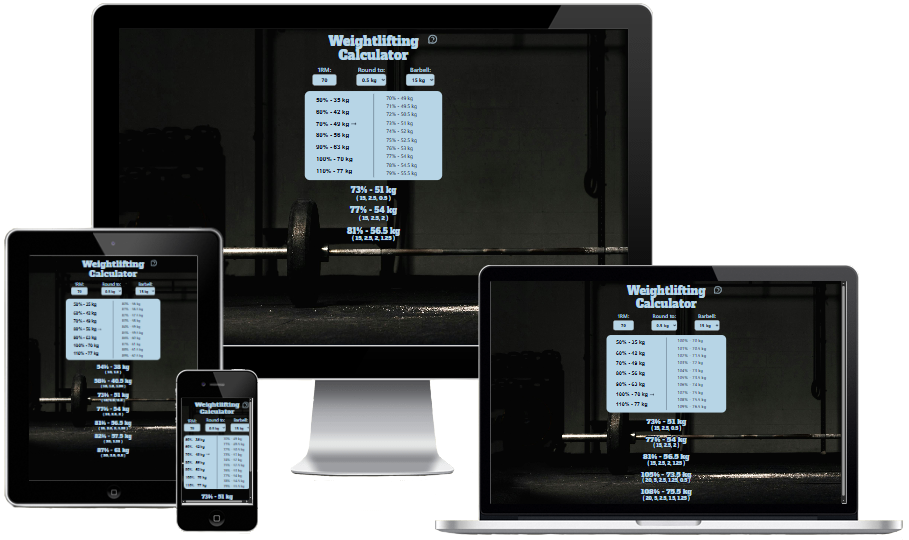
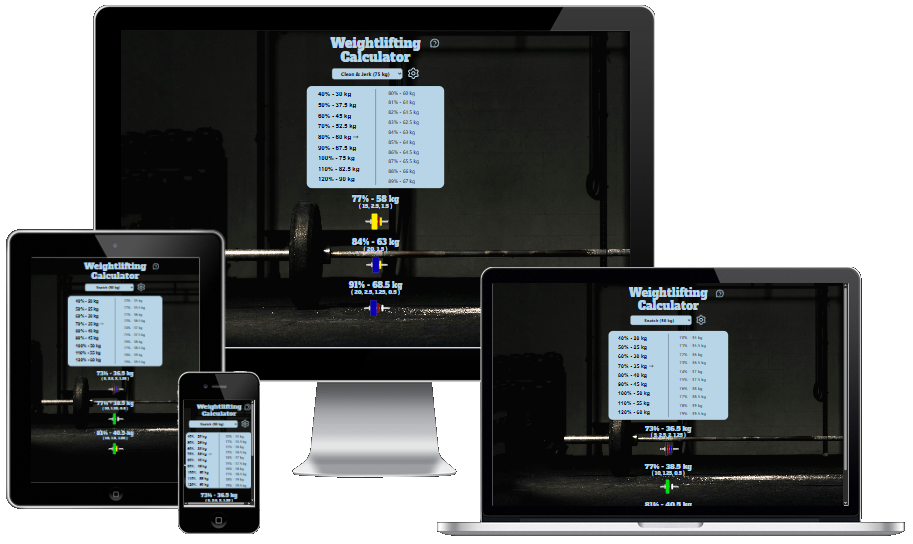
docs: update screenshot image and clarify text for plates feature

diff --git a/README.md b/README.md
@@ -33,11 +33,13 @@ Instead of doing the math in your head or looking up tables, this app shows you 
 
 - Detailed Ranges – click a percentage to expand and view all weights in that range (e.g., 70–79%).
 
-- Saved Percentages – save your frequently used percentages (e.g., 68%, 76%, 82%) for quick reference.
+- Saved Percentages – save your percentages for current workout (e.g., 68%, 76%, 82%) for quick reference.
 
 - Custom Rounding – round to your preferred increment (0.5kg, 1kg, 2.5kg, etc.).
 
-- Barbell Plate Calculator – see which plates to load on each side of the bar, based on available gym plates.
+- Choose weight plates based on preference and availability.
+
+- Barbell Plate Calculator – see which plates to load on each side of the bar, based on available weight plates.
 
 - Local Storage Support – your settings and saved percentages persist even if you close the browser.
 
